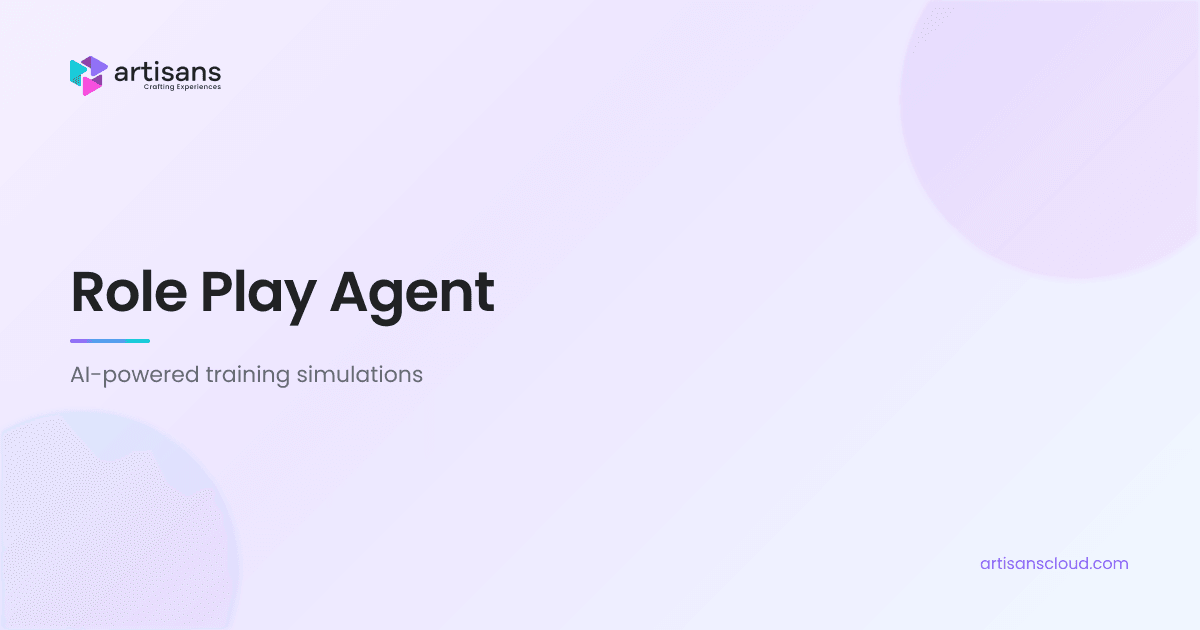
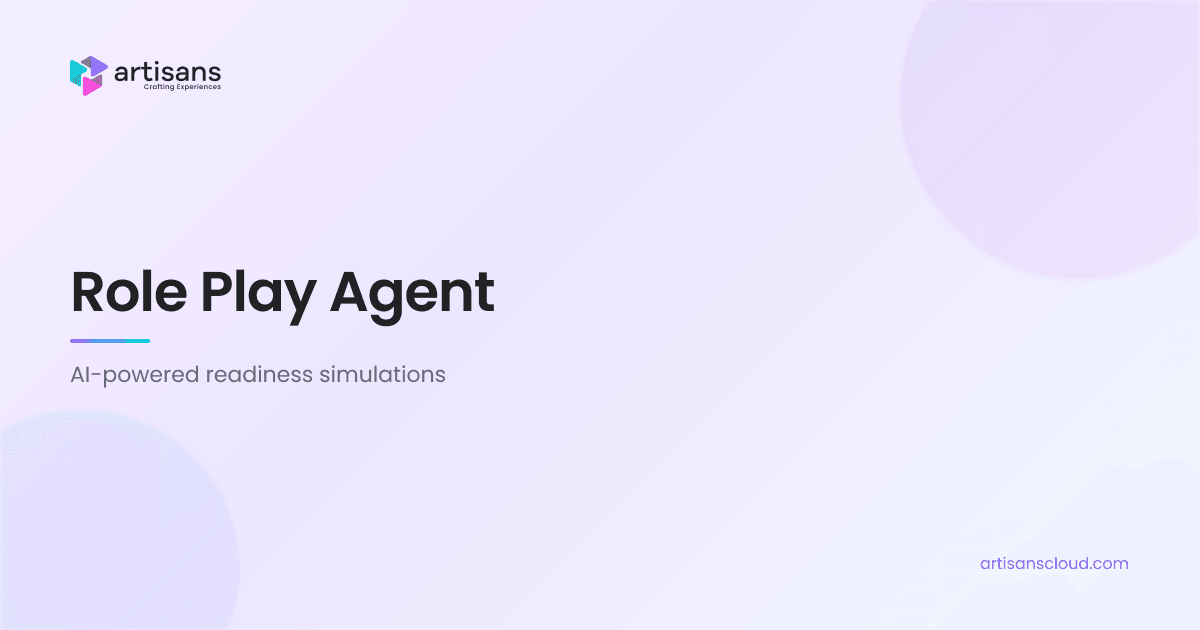
docs: update role-play-agent metadata and OG image subtitle for improved messaging

Changed region(s): [[0.185, 0.573, 0.37, 0.6333], [0.0308, 0.754, 0.0925, 0.8444], [0.0617, 0.0905, 0.0925, 0.1206]]

diff --git a/role-play-agent.html b/role-play-agent.html
@@ -18,7 +18,7 @@
     <meta property="og:url" content="https://artisanscloud.com/role-play-agent">
     <meta property="og:title" content="Role Play Agent | Artisans Cloud">
     <meta property="og:description"
-        content="Transform training from theoretical learning into experiential capability building. AI-powered role play simulations that prepare your workforce for the moments that matter.">
+        content="Role Play Agent prepares your teams for real situations before they happen. AI-powered simulations that build readiness, reduce variability, and drive consistent execution at scale.">
     <meta property="og:type" content="website">
     <meta property="og:image" content="https://www.artisanscloud.com/assets/og/role-play-agent.png">
     <meta property="og:image:width" content="1200">

diff --git a/scripts/generate-og-images.js b/scripts/generate-og-images.js
@@ -111,7 +111,7 @@ const PAGES = [
   {
     file: 'role-play-agent',
     title: 'Role Play Agent',
-    subtitle: 'AI-powered training simulations',
+    subtitle: 'AI-powered readiness simulations',
   },
   {
     file: 'warehouse-management-system',
